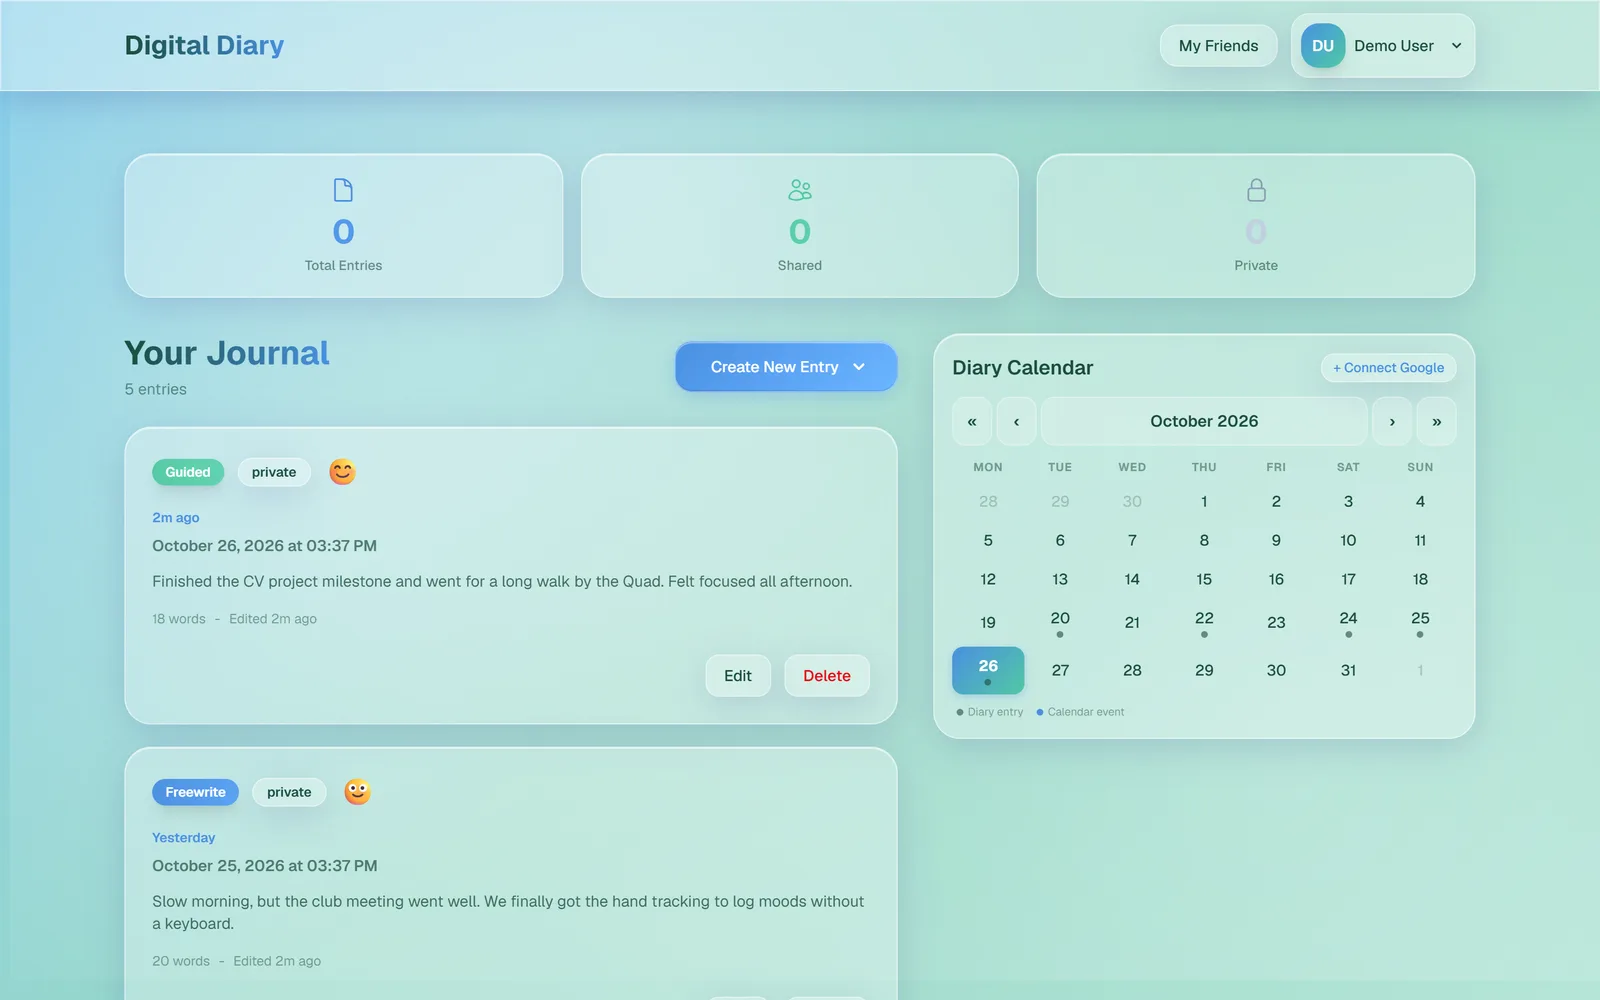
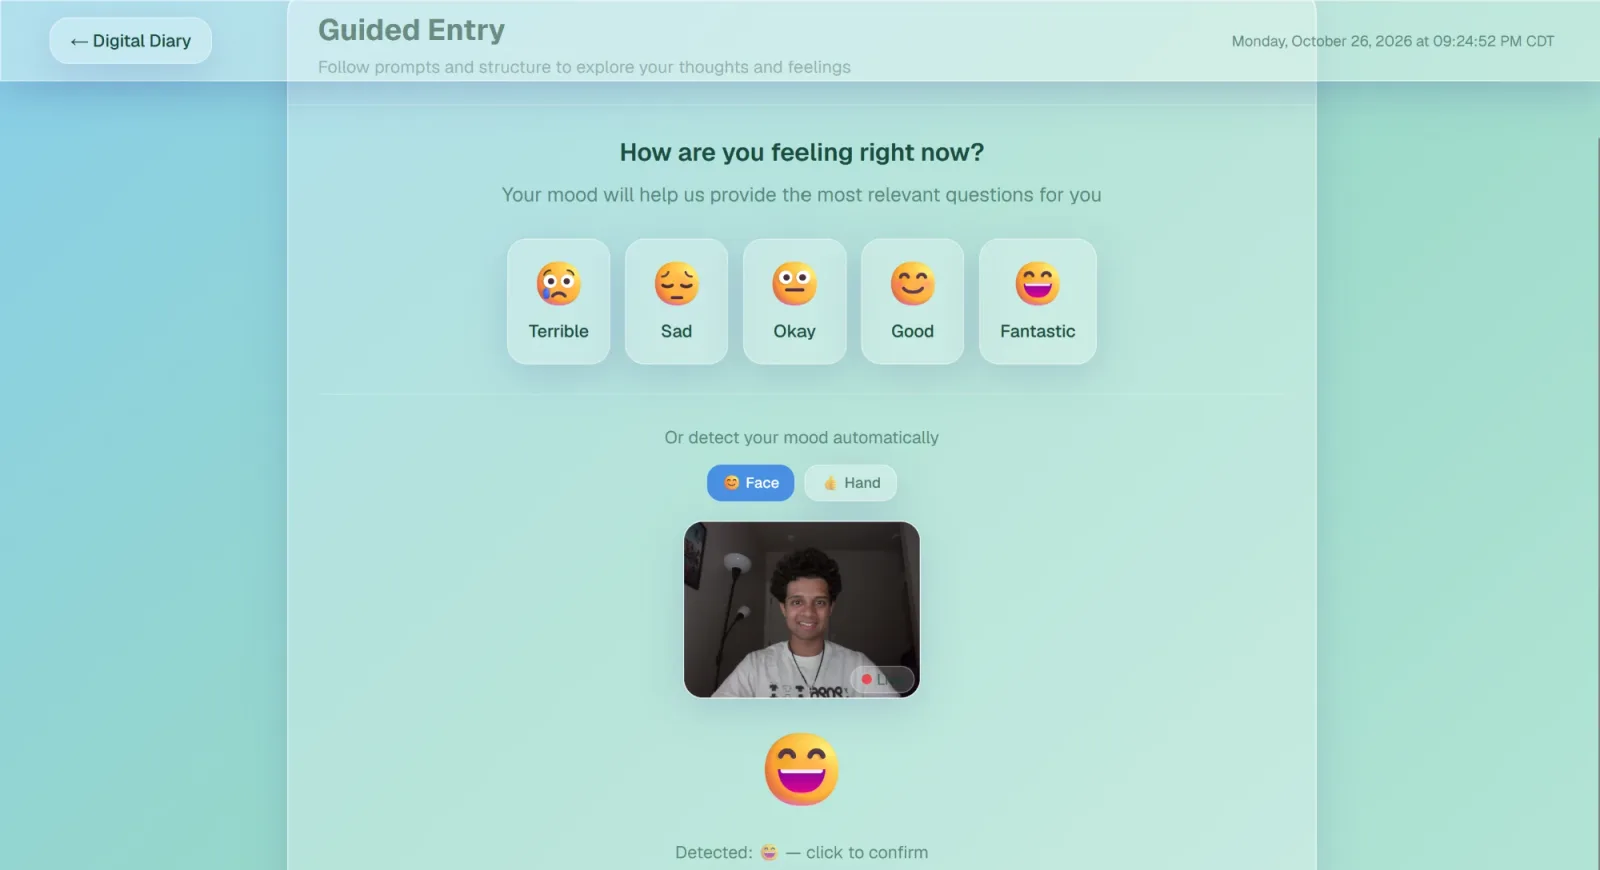
Digital Diary image: face mode detecting a smile

diff --git a/components/sections/Experience.tsx b/components/sections/Experience.tsx
@@ -111,10 +111,10 @@ const EXPERIENCES: Role[] = [
     ],
     image: {
       src: "projects/digital-diary.webp",
-      alt: "Digital Diary's journal page with mood-tagged entries and a calendar of days with entries",
-      caption: "The journal view, shown with sample entries on a local copy.",
+      alt: "Digital Diary's guided entry page detecting a smile from the webcam and suggesting the Fantastic mood",
+      caption: "Face mode reading a smile from the webcam and proposing a mood to confirm.",
       width: 1600,
-      height: 1000,
+      height: 870,
     },
   },
   {
